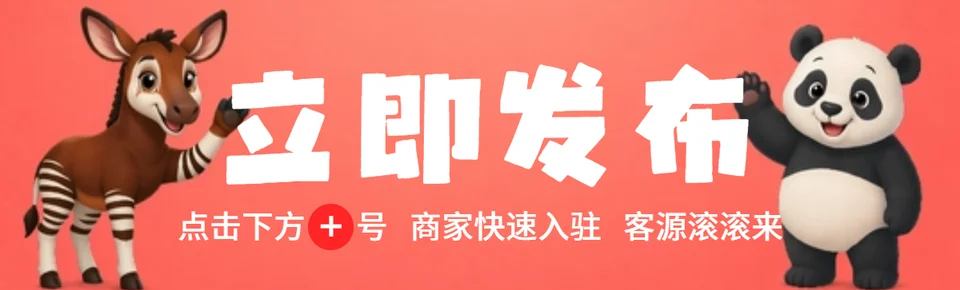
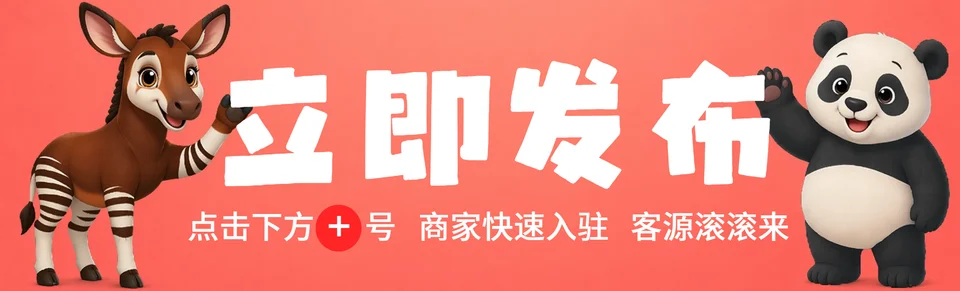
chore(home): 赞助位换成最终版 sponsor.webp + 清理仓库散落图片
- public/images/sponsor.webp 替换为用户给的最终稿（2172x658 原图压成 960x291 webp，30 KB）
- 删除根目录 7 张历史散落图片：0ae85dcf...png / 4e80c40f...jpg / concrete plant.jpg / images (1).jfif:Zone.Identifier / jardin d'asic.jfif / unnamed.webp:Zone.Identifier / xike.webp / eae01a8...png（均未被代码引用）
- git rm qrcode.png：微信群入口已改为加群主邀请，活码全链路早已拆除，根目录这张二维码是历史遗留
- next.config.ts 删除 qrcode.png|xike.webp|favicon.ico 的 header rule（文件都不复存在）

diff --git a/next.config.ts b/next.config.ts
@@ -22,15 +22,6 @@ const nextConfig: NextConfig = {
           { key: "Service-Worker-Allowed", value: "/" },
         ],
       },
-      {
-        source: "/:file(qrcode.png|xike.webp|favicon.ico)",
-        headers: [
-          {
-            key: "Cache-Control",
-            value: "public, max-age=31536000, immutable",
-          },
-        ],
-      },
     ];
   },
 };
